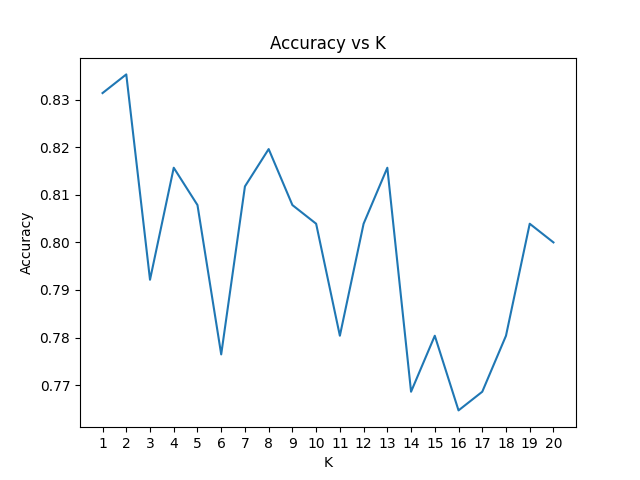
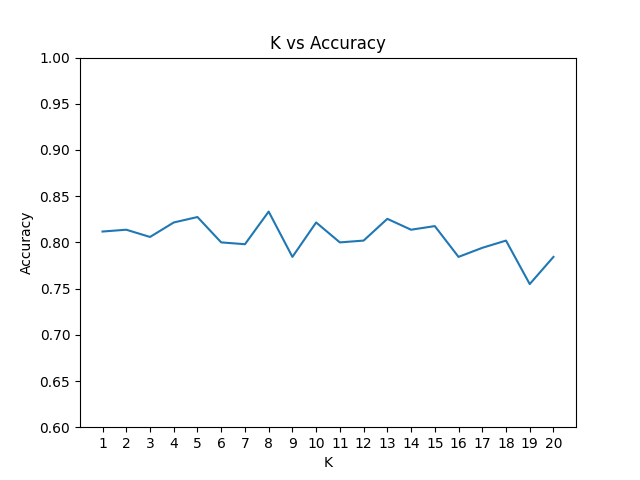
Fixed labels and increased K generations

diff --git a/Homework 1/Homework1.py b/Homework 1/Homework1.py
@@ -49,15 +49,17 @@ def classifier(k):
     testSet=[]
     split = 0.67
     url = 'https://raw.githubusercontent.com/ruiwu1990/CSCI_4120/master/KNN/iris.data'
+
     print("\tLoading dataset...")
     trainingSet, testSet = loadDataset(url, 0.66)
     #print('Train set: ' + repr(len(trainingSet)))
     #print('Test set: ' + repr(len(testSet)))
-    
     targetNames = ['Iris-setosa', 'Iris-versicolor', 'Iris-virginica']
+
     print("\tPreparing training data...")
     trainX = [i[0:4] for i in trainingSet]
     trainY = parseTargets(trainingSet, targetNames, 4)
+
     print("\tPreparing testing data...")
     testX = [i[0:4] for i in testSet]
     testY = parseTargets(testSet, targetNames, 4)
@@ -77,7 +79,7 @@ def main():
     kAccuracies = []
     totalAccuracy = 0
     highestK = 20
-    cyclesPerK = 5
+    cyclesPerK = 10
     bestK = 0
     bestAccuracy = 0
     for k in range(1,highestK+1):
@@ -99,9 +101,10 @@ def main():
 
     x = np.arange(1,highestK+1)
     plt.plot(x, kAccuracies)
-    plt.title("Accuracy vs K")
+    plt.title("K vs Accuracy")
     plt.xlabel("K")
     plt.ylabel("Accuracy")
+    plt.ylim(0.6,1)
     plt.xticks(range(1,highestK+1))
     plt.show()
 

diff --git a/Homework 1/README.md b/Homework 1/README.md
@@ -9,7 +9,7 @@ Open code and run in your preferred editor. We have used Jupyter Notebook and Sp
 
 ## K Discussion
 
-In general, accuracy seems hold steadily at around 80% until k = 14. I attempted to run k from 1 - 51 running each k 20 times, and the results shows k steadily decreasing when k > 14, with 1 < k < 14 seeming to be the highest average range. For this dataset, k's in this range seem to be equally reliable
+The K with the highest accuracy in the example graph is 8 with an accuracy of 83.3%. In general, accuracy seems hold steadily at around 80% until k = 14. I attempted to run k from 1 - 51 running each k 20 times, and the results shows k steadily decreasing when k > 14, with 1 < k < 14 seeming to be the highest average range. For this dataset, k's in this range seem to be equally reliable
 
 ## Line chart example output
 
